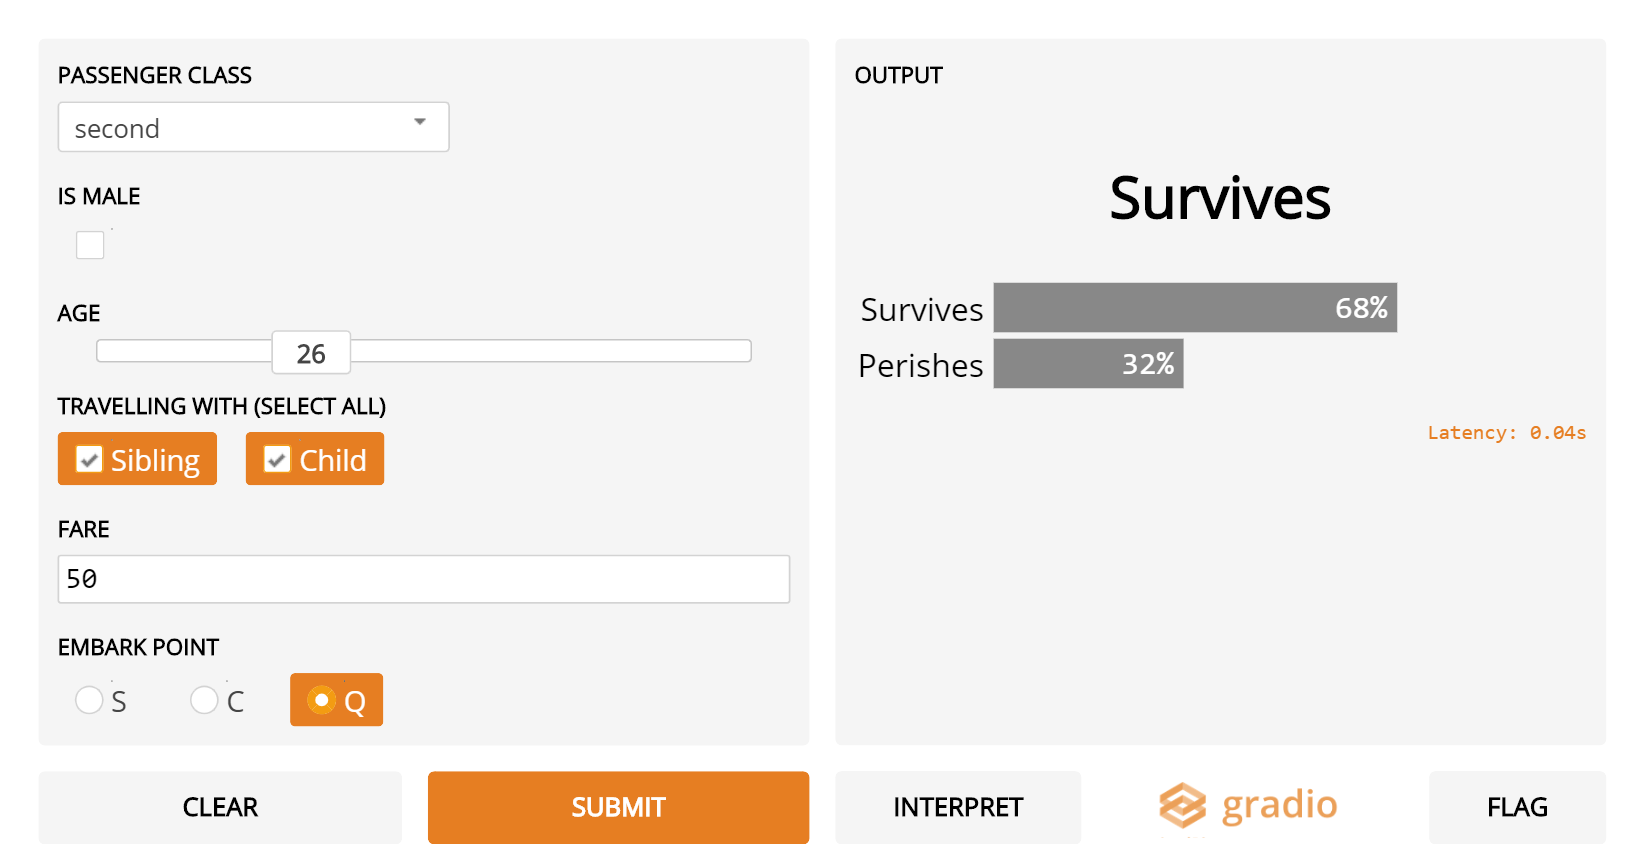
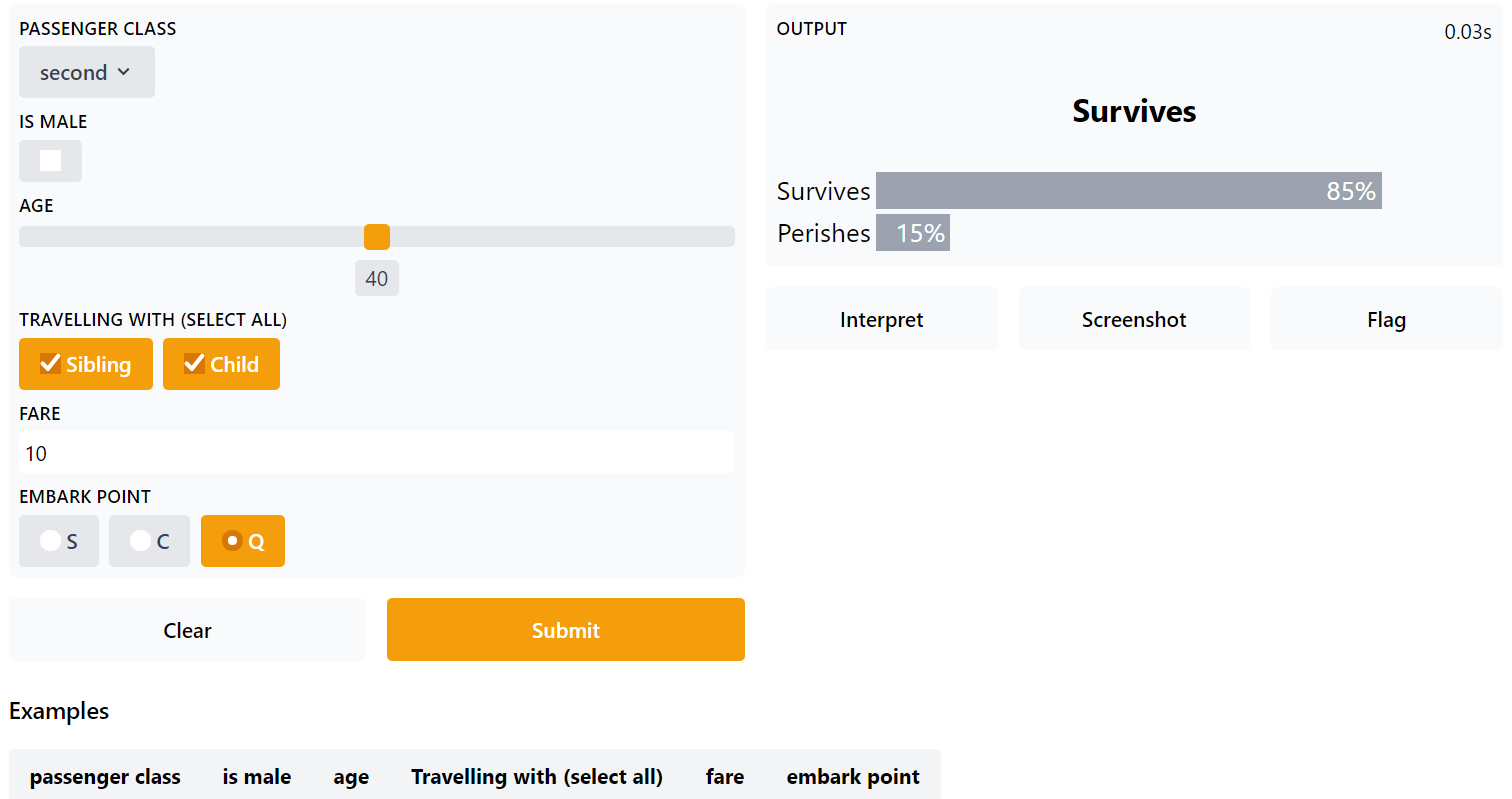
update demo screenshots

diff --git a/demo/titanic_survival.py b/demo/titanic_survival.py
@@ -75,7 +75,7 @@ iface = gr.Interface(
         "checkbox",
         gr.inputs.Slider(0, 80),
         gr.inputs.CheckboxGroup(["Sibling", "Child"], label="Travelling with (select all)"),
-        gr.inputs.Number().interpret(delta_type="absolute", delta=5),
+        gr.inputs.Number(),
         gr.inputs.Radio(["S", "C", "Q"], type="index"),
     ],
     "label",
